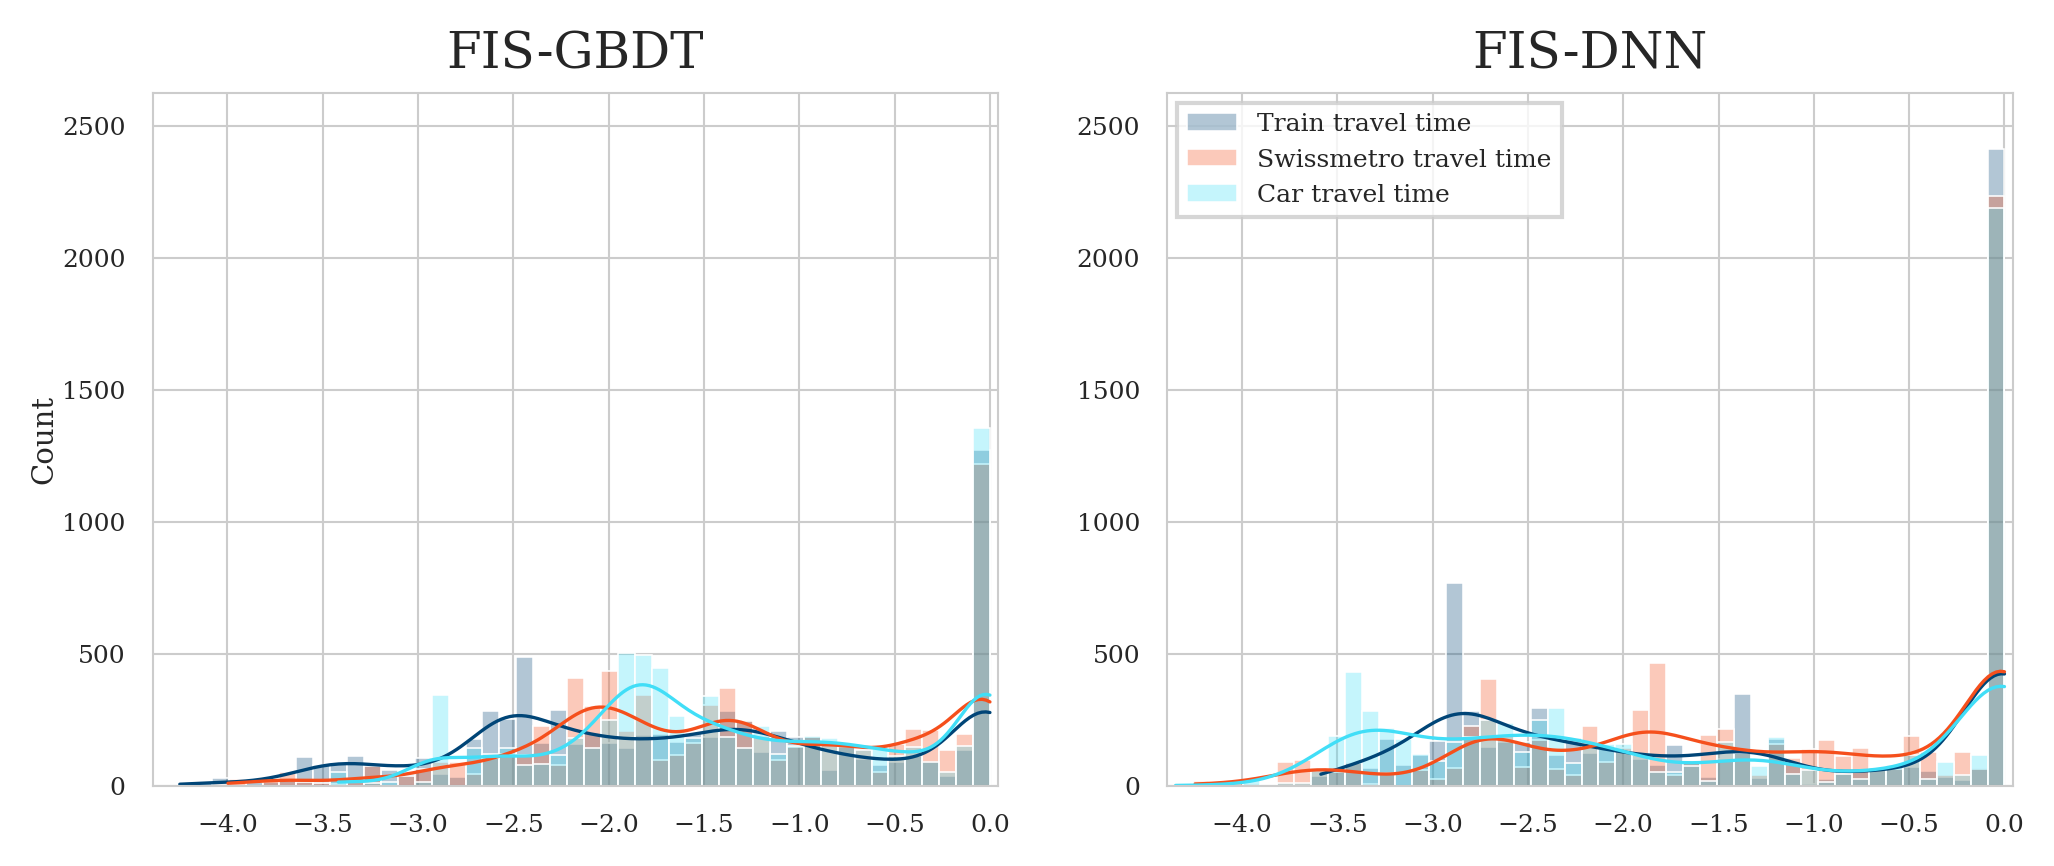
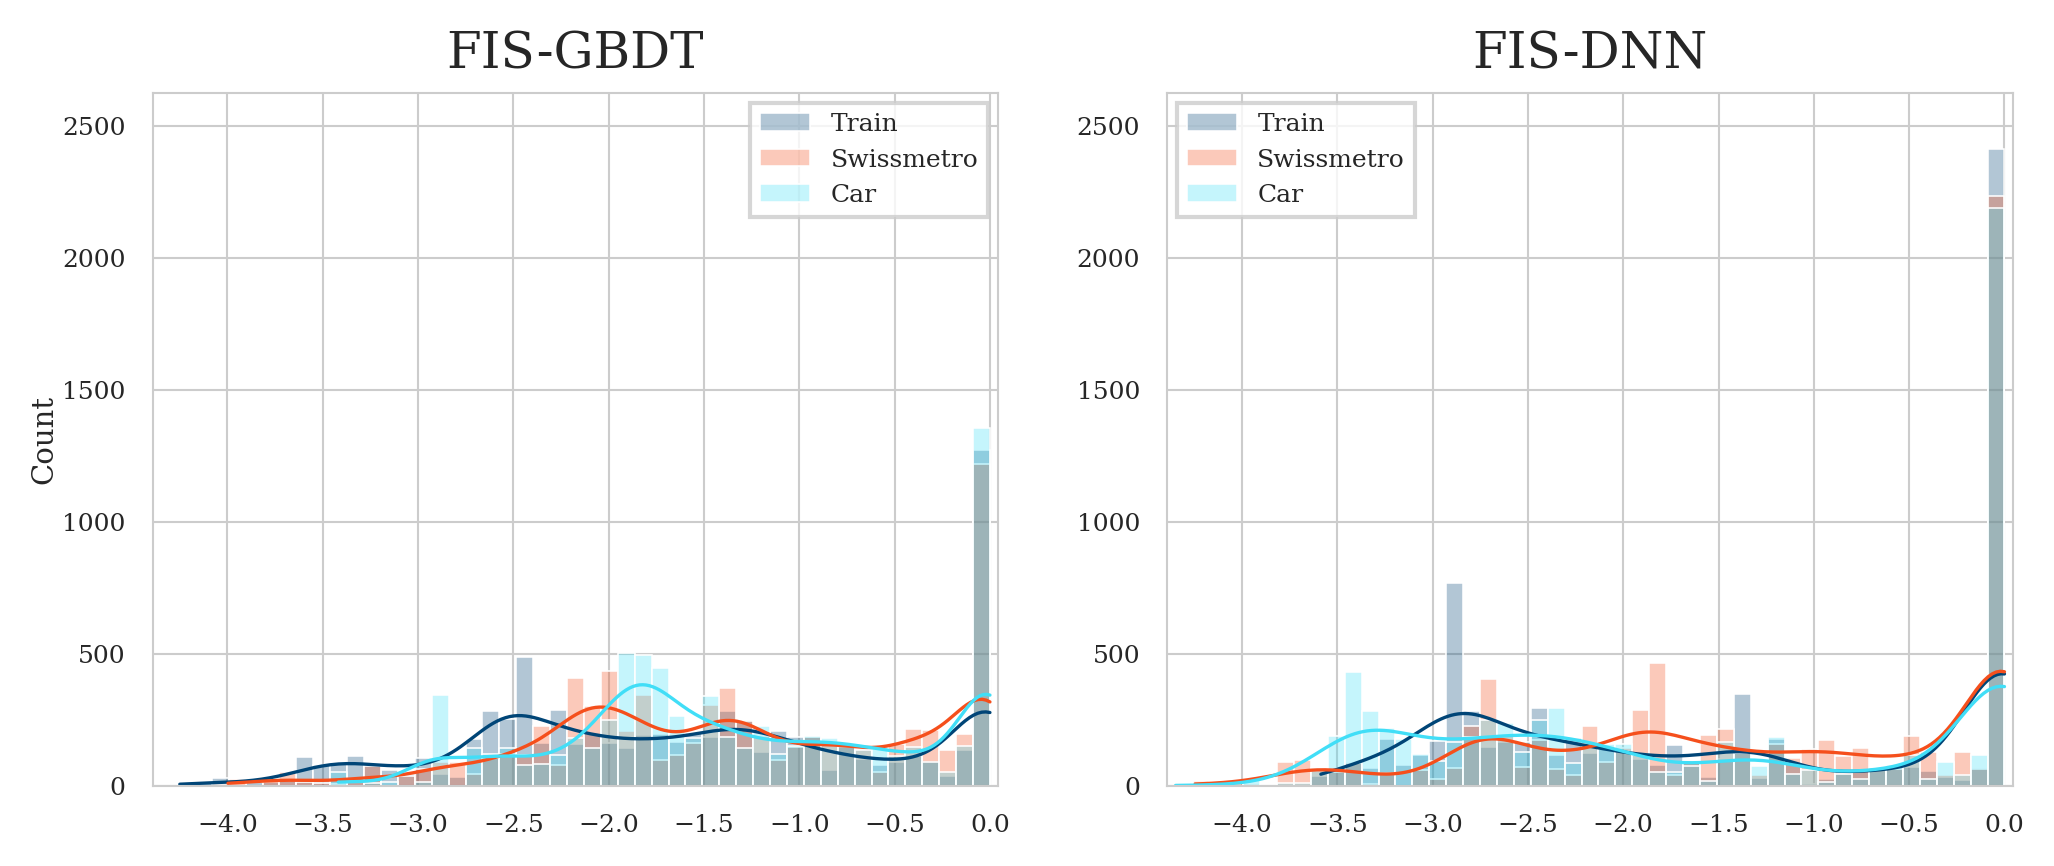
plots updated

Changed region(s): [[0.3427, 0.0935, 0.4674, 0.2806], [0.6232, 0.0935, 0.7478, 0.2494], [0.7167, 0.2494, 0.7478, 0.2806]]

diff --git a/src/plotter.py b/src/plotter.py
@@ -88,6 +88,20 @@ feature_names = {
     "congestion_charge": "Congestion charge",
     "driving_traffic_percent": "Road congestion percentage",
 }
+feature_names_add_plots = {
+    "SM_TT": "Swissmetro",
+    "SM_CO": "Swissmetro",
+    "TRAIN_TT": "Train",
+    "TRAIN_CO": "Train",
+    "CAR_TT": "Car",
+    "CAR_CO": "Car",
+    "dur_walking": "Walking",
+    "dur_cycling": "Cycling",
+    "dur_pt_rail": "PT",
+    "cost_transit": "PT",
+    "dur_driving": "Driving",
+    "cost_driving_fuel": "Driving",
+}
 
 sm_tt_indices = [0, 3, 7]
 sm_cost_indices = [2, 5, 8]
@@ -784,7 +798,7 @@ def additional_plots_for_lpmc_sm(
                 counts, _ = np.histogram(y_tastenet[:, j], bins=bin_edges)
             max_count = max(max_count, counts.max())
 
-        feature_plot_names.append(feature_names[alt_spec_features[j]])
+        feature_plot_names.append(feature_names_add_plots[alt_spec_features[j]])
 
     fig, axes = plt.subplots(1, 2, figsize=(8, 3), dpi=300)
     for j, (y_r, y_t) in enumerate(zip(y_rumboost_plot, y_tastenet_plot)):
@@ -833,7 +847,8 @@ def additional_plots_for_lpmc_sm(
                 ax.set_ylabel("Count")
             else:
                 ax.set_ylabel("")
-        plt.legend()
+        axes[0].legend()
+        axes[1].legend()
 
     xlim = (
         min_val - (max_val - min_val) * 0.01,
